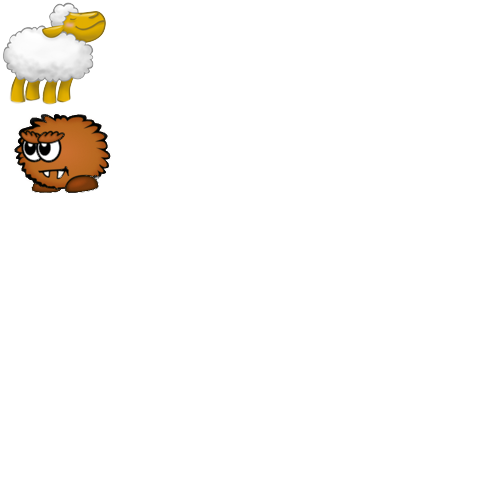
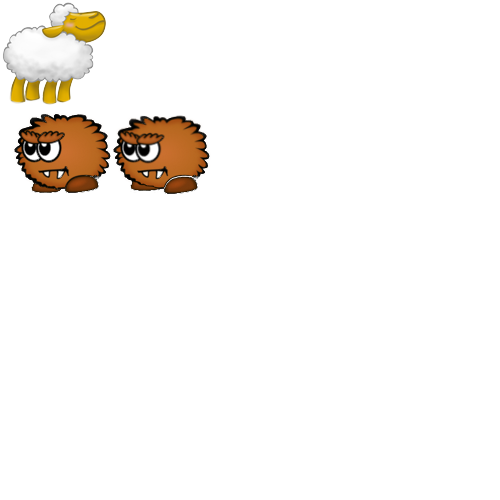
ddd

Changed region(s): [[0.21, 0.21, 0.42, 0.39]]

diff --git a/game.js b/game.js
@@ -6,11 +6,18 @@ var ctxMap;
 var player;
 var ctxPlayer;
 
-var enemy;
+//var enemy;
+var enemies = [];
 var ctxEnemy;
 
-var gameWidth = 800;
-var gameHeight = 500;
+var stats;
+var ctxStats;
+
+var w = Math.max(document.documentElement.clientWidth, window.innerWidth || 0);
+var h = Math.max(document.documentElement.clientHeight, window.innerHeight || 0);
+
+var gameWidth = w;
+var gameHeight = h* 0.85;
 
 var background = new Image();
 background.src = "img/bg.jpg";
@@ -21,6 +28,13 @@ tiles.src = "img/tiles.png";
 var requestAnimFrame = window.requestAnimFrame || window.webkitRequestAnimationFrame || window.mozRequestAnimationFrame || window.oRequestAnimationFrame || window.msRequestAnimationFrame;
 
 var isPlaying;
+
+//For creating enemies
+
+var spawnInterval;
+var spawnTime = 3000;
+var spawnAmount = 15;
+
 
 function Player() {
     this.srcX = 0;
@@ -77,11 +91,9 @@ Player.prototype.update = function () {
         this.drawY = 0;
     }
 
-   /* if (this.drawY > gameHeight-this.height) {
-        this.drawY = gameHeight;
-    }*/
-console.log(this.drawY);
-
+    if (this.drawY > gameHeight - this.height) {
+        this.drawY = gameHeight - this.height;
+    }
 
 };
 
@@ -136,28 +148,58 @@ function checkKeyUp(e) {
 function Enemy() {
 
     this.srcX = 0;
+    this.srcX2 = 0;
     this.srcY = 110;
-    this.drawX = gameWidth + Math.floor(Math.random() * 10);
+    this.drawX = gameWidth + Math.floor(Math.random() * gameHeight);
     this.drawY = Math.floor(Math.random() * gameHeight);
-    this.width = 150;
+    this.width = 100;
     this.height = 110;
 
-    this.speed = 2;
+    this.speed = 10;
 }
 
 Enemy.prototype.draw = function () {
-    clearCtxEnemy();
+    //clearCtxEnemy();
     ctxEnemy.drawImage(tiles, this.srcX, this.srcY, this.width, this.height, this.drawX, this.drawY, this.width, this.height);
+
 };
+
 
 Enemy.prototype.update = function () {
     this.drawX -= this.speed;
+    if (this.drawX < -this.width) {
+        this.destroy();
+    }
+
+    if (this.drawY > gameHeight - this.height) {
+        this.destroy();
+    }
+
+
 };
 
 Enemy.prototype.clear = function () {
     ctxEnemy.clear();
 };
 
+Enemy.prototype.destroy = function(){
+    enemies.splice(enemies.indexOf(this),1);
+}
+
+function spawnEnemies(count) {
+    for (var i = 0; i < count; i++) {
+        enemies[i] = new Enemy();
+    }
+}
+
+function startCreatingEnemies() {
+    stopCreatingEnemies();
+    spawnInterval = setInterval(function(){spawnEnemies(spawnAmount)}, spawnTime);
+}
+function stopCreatingEnemies() {
+    clearInterval(spawnInterval);
+
+}
 
 function init() {
     map = document.getElementById("map");
@@ -176,11 +218,20 @@ function init() {
     enemy.width = gameWidth;
     drawBg();
 
+    stats = document.getElementById("stats");
+    ctxStats = stats.getContext("2d");
+    stats.width = gameWidth;
+    stats.height = gameHeight;
+
+    ctxStats.fillStyle = "red";
+    ctxStats.font = "bold 3em Verdana";
+
 
     player = new Player();
-    enemy = new Enemy();
+    // enemy = new Enemy();
     startLoop();
-
+    updateStats();
+    spawnEnemies(1);
     document.addEventListener("keydown", checkKeyDown, false);
     document.addEventListener("keyup", checkKeyUp, false);
 
@@ -188,13 +239,19 @@ function init() {
 
 function draw() {
     player.draw();
-
-    enemy.draw();
+    clearCtxEnemy();
+    for (var i = 0; i < enemies.length; i++) {
+        enemies[i].draw();
+    }
 }
 
 function update() {
     player.update();
-    enemy.update();
+    for (var i = 0; i < enemies.length; i++) {
+        enemies[i].update();
+    }
+
+
 }
 
 function loop() {
@@ -210,6 +267,7 @@ function loop() {
 function startLoop() {
     isPlaying = true;
     loop();
+    startCreatingEnemies();
 }
 
 function stopLoop() {
@@ -229,3 +287,7 @@ function clearCtxEnemy() {
     ctxEnemy.clearRect(0, 0, gameWidth, gameHeight);
 }
 
+function updateStats() {
+    ctxStats.clearRect(0, 0, gameWidth, gameHeight);
+    ctxStats.fillText("Player", gameWidth*0.85,50);
+}

diff --git a/styles.css b/styles.css
@@ -10,20 +10,6 @@ body{
 
 }
 
-#map{
-    background: white;
-    margin: 2% 28%;
-    position: absolute;
-}
-
-#player{
-    background: none;
-    margin: 2% 28%;
-    position: absolute;
-}
-
-#enemy{
-    background: none;
-    margin: 2% 28%;
-    position: absolute;
+canvas{
+      position: absolute;
 }

diff --git a/index.html b/index.html
@@ -11,6 +11,7 @@
     <canvas id="map"></canvas>
     <canvas id="player"></canvas>
     <canvas id="enemy"></canvas>
+    <canvas id="stats"></canvas>
 
 
 
